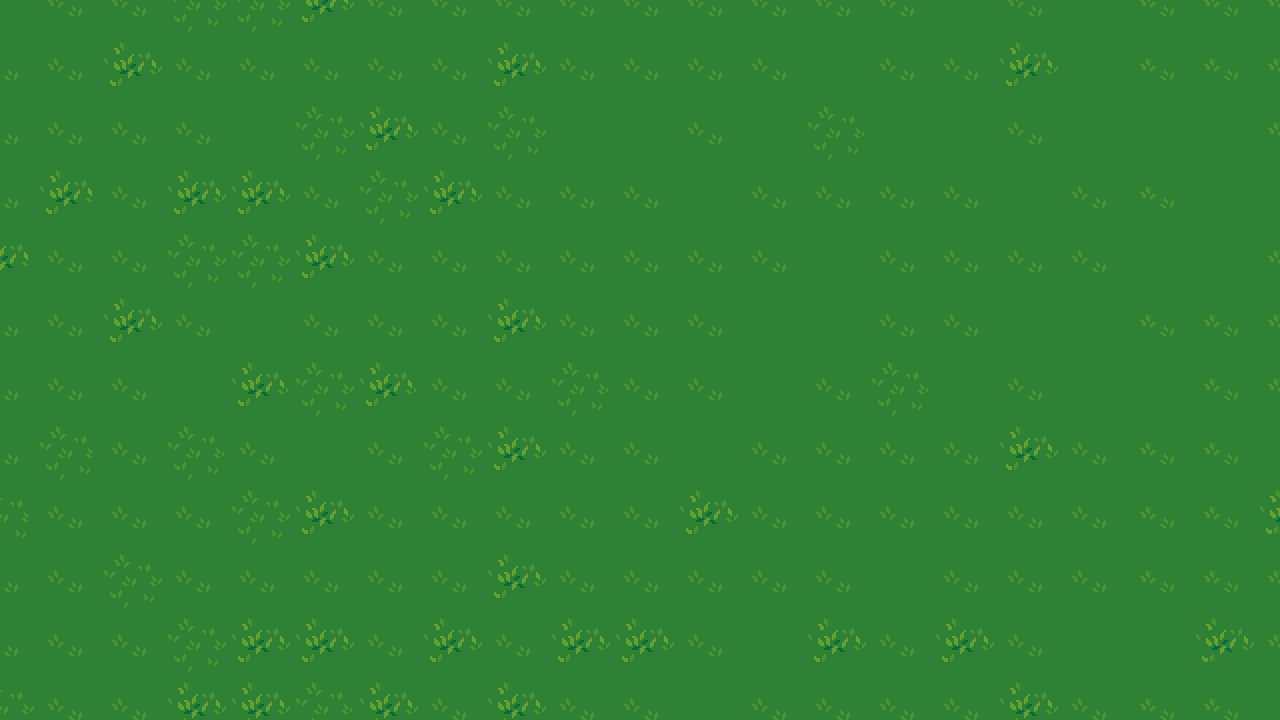
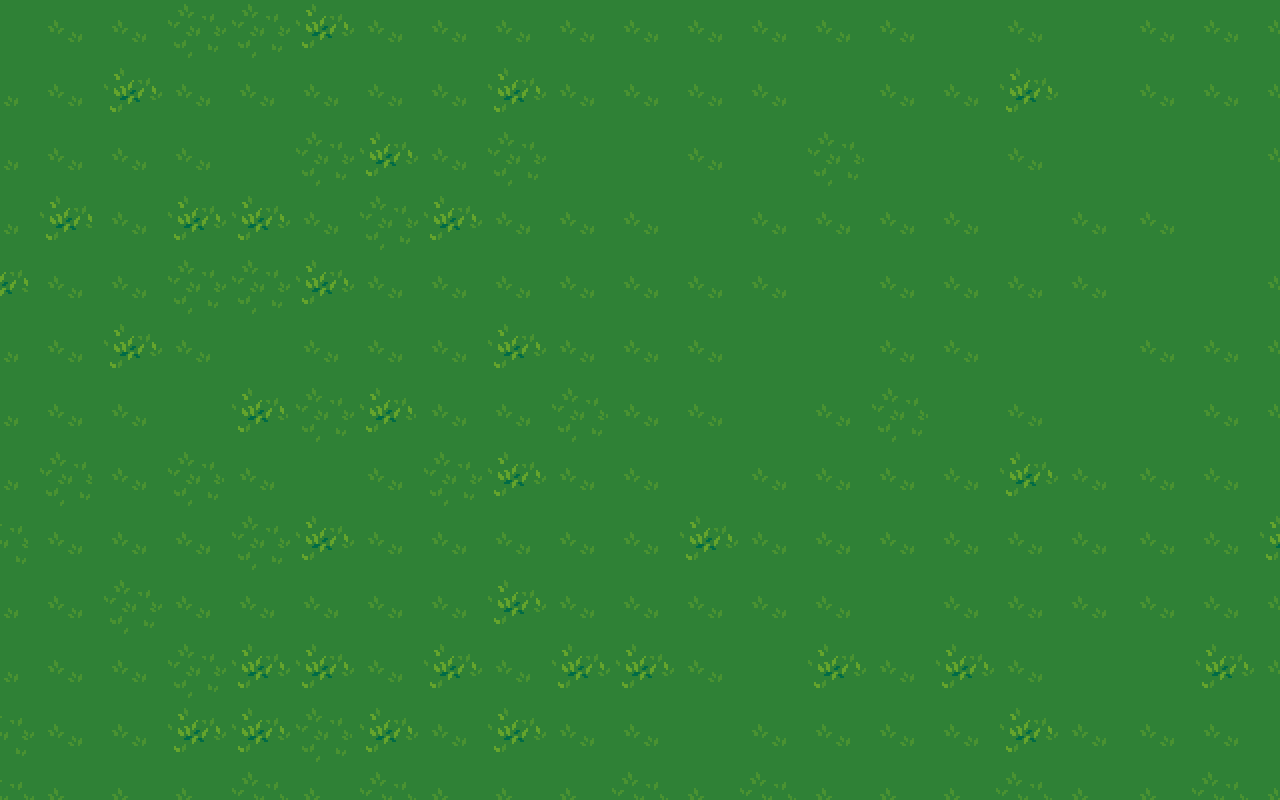
contador de score

diff --git a/JudsonRun/Judson.cpp b/JudsonRun/Judson.cpp
@@ -4,19 +4,18 @@ Judson::Judson(Image *shadowImg)
 {
     type = PLAYER;
 
-    tileSet = new TileSet("Resources/judson.png", 64, 96, 2, 4);
+    tileSet = new TileSet("Resources/judson.png", 64, 96, 6, 12);
     anim = new Animation(tileSet, 0.2f, true);
 
     shadow = new Sprite(shadowImg);
 
     speed = 300.0f;
 
-    BBox(new Rect(-20.0f, -34.0f, 14.0f, 48.0f));
+    BBox(new Rect(-20.0f, -32.0f, 14.0f, 50.0f));
 }
 
 Judson::~Judson()
 {
-    delete shadow;
     delete anim;
     delete tileSet;
 }
@@ -40,29 +39,28 @@ void Judson::Update()
     if (window->KeyUp(VK_DOWN))
         down = false;
 
-    if (left && !right && !up && !down)
+    if (left && right)
+        left = right = false;
+    if (up && down)
+        up = down = false;
+
+    float diaSpeed = speed / float(sqrt(2.0));
+
+    if (left && up)
+        Translate(-diaSpeed * gameTime, -diaSpeed * gameTime);
+    else if (left && down)
+        Translate(-diaSpeed * gameTime, diaSpeed * gameTime);
+    else if (right && up)
+        Translate(diaSpeed * gameTime, -diaSpeed * gameTime);
+    else if (right && down)
+        Translate(diaSpeed * gameTime, diaSpeed * gameTime);
+    else if (left)
         Translate(-speed * gameTime, 0.0f);
-    else if (!left && right && !up && !down)
+    else if (right)
         Translate(speed * gameTime, 0.0f);
-    else if (!left && !right && up && !down)
+    else if (up)
         Translate(0.0f, -speed * gameTime);
-    else if (!left && !right && !up && down)
-        Translate(0.0f, speed * gameTime);
-    else if (left && !right && up && !down)
-        Translate(-(speed / float(sqrt(2.0))) * gameTime, -(speed / float(sqrt(2.0))) * gameTime);
-    else if (left && !right && !up && down)
-        Translate(-(speed / float(sqrt(2.0))) * gameTime, (speed / float(sqrt(2.0))) * gameTime);
-    else if (!left && right && up && !down)
-        Translate((speed / float(sqrt(2.0))) * gameTime, -(speed / float(sqrt(2.0))) * gameTime);
-    else if (!left && right && !up && down)
-        Translate((speed / float(sqrt(2.0))) * gameTime, (speed / float(sqrt(2.0))) * gameTime);
-    else if (left && !right && up && down)
-        Translate(-speed * gameTime, 0.0f);
-    else if (!left && right && up && down)
-        Translate(speed * gameTime, 0.0f);
-    else if (left && right && up && !down)
-        Translate(0.0f, -speed * gameTime);
-    else if (left && right && !up && down)
+    else if (down)
         Translate(0.0f, speed * gameTime);
 
     if (powered)
@@ -88,12 +86,15 @@ void Judson::OnCollision(Object *other)
         powered = true;
         poweredTime = 10.0f;
 
+        // temporario, so pra testar
+        JudsonRun::panel->AddScore(100);
+
         JudsonRun::scene->Delete(other, MOVING);
     }
 }
 
 void Judson::Draw()
 {
-    shadow->Draw(x, y + 48, Layer::LOWER);
-    anim->Draw(x, y, Layer::FRONT);
+    shadow->Draw(float(int(x)), float(int(y) + 48), Layer::LOWER);
+    anim->Draw(float(int(x)), float(int(y)), 0.9f - (y / float(window->Height())) * 0.8f);
 }

diff --git a/JudsonRun/JudsonRun.cpp b/JudsonRun/JudsonRun.cpp
@@ -1,26 +1,19 @@
-
 #include "JudsonRun.h"
-#include "Cpp.h"
-#include "CppGenerator.h"
-#include "Engine.h"
-#include "Judson.h"
-#include "Mouse.h"
 #include "Resources.h"
 
 Scene *JudsonRun::scene = nullptr;
+Panel *JudsonRun::panel = nullptr;
 
 void JudsonRun::Init()
 {
     scene = new Scene();
+    panel = new Panel();
 
     bg = new Sprite("Resources/background.png");
     shadow = new Image("Resources/shadow.png");
 
     auto cppGenerator = new CppGenerator(shadow);
     scene->Add(cppGenerator, STATIC);
-
-    auto mouse = new Mouse();
-    scene->Add(mouse, MOVING);
 
     auto judson = new Judson(shadow);
     judson->MoveTo(window->CenterX(), window->CenterY());
@@ -34,17 +27,23 @@ void JudsonRun::Update()
 
     scene->CollisionDetection();
 
+    panel->Update();
     scene->Update();
 }
 
 void JudsonRun::Draw()
 {
     bg->Draw(window->CenterX(), window->CenterY(), Layer::BACK);
+
+    panel->Draw();
     scene->Draw();
 }
 
 void JudsonRun::Finalize()
 {
+    delete bg;
+    delete shadow;
+    delete panel;
     delete scene;
 }
 
@@ -55,7 +54,7 @@ int APIENTRY WinMain(_In_ HINSTANCE hInstance, _In_opt_ HINSTANCE hPrevInstance,
 
     // engine->window->Mode(FULLSCREEN);
     engine->window->Mode(WINDOWED);
-    engine->window->Size(1280, 720);
+    engine->window->Size(1280, 800);
     engine->window->Color(127, 127, 127);
     engine->window->Title("Judson, Run!");
     engine->window->Icon(IDI_ICON);

diff --git a/JudsonRun/Panel.cpp b/JudsonRun/Panel.cpp
@@ -1,0 +1,37 @@
+#include "Panel.h"
+
+Panel::Panel()
+{
+    background = new Sprite("Resources/panel.png");
+    numbers = new TileSet("Resources/numbers.png", 24, 32, 5, 10);
+    anim = new Animation[9]{
+        Animation(numbers, 0.0f, false), Animation(numbers, 0.0f, false), Animation(numbers, 0.0f, false),
+        Animation(numbers, 0.0f, false), Animation(numbers, 0.0f, false), Animation(numbers, 0.0f, false),
+        Animation(numbers, 0.0f, false), Animation(numbers, 0.0f, false), Animation(numbers, 0.0f, false),
+    };
+}
+
+Panel::~Panel()
+{
+    delete[] anim;
+    delete numbers;
+    delete background;
+}
+
+void Panel::Update()
+{
+    time += gameTime;
+}
+
+void Panel::Draw()
+{
+    background->Draw(window->Width() / 2.0f, 40.0f, 0.9f);
+    for (int i = 0; i < scoreTxt.length(); ++i)
+        anim[i].Draw(scoreTxt.at(i) - '0', 36.0f + (24.0f * i), 58.0f, Layer::LOWER);
+}
+
+void Panel::AddScore(uint s)
+{
+    score += s;
+    scoreTxt = (stringstream() << setw(9) << setfill('0') << to_string(score)).str();
+}

diff --git a/JudsonRun/Panel.h b/JudsonRun/Panel.h
@@ -1,0 +1,35 @@
+#ifndef _PANEL_H_
+#define _PANEL_H_
+
+#include "Animation.h"
+#include "Object.h"
+#include <iomanip>
+#include <sstream>
+#include <string>
+using std::setfill;
+using std::setw;
+using std::string;
+using std::stringstream;
+using std::to_string;
+
+class Panel : public Object
+{
+  private:
+    Sprite *background = nullptr;
+    TileSet *numbers = nullptr;
+    Animation *anim = nullptr;
+    float time = 0.0f;
+    uint score = 0;
+    string scoreTxt = "000000000";
+
+  public:
+    Panel();
+    ~Panel();
+
+    void AddScore(uint s);
+
+    void Update();
+    void Draw();
+};
+
+#endif

diff --git a/JudsonRun/JudsonRun.h b/JudsonRun/JudsonRun.h
@@ -1,8 +1,12 @@
 #ifndef _PLATFORMER_H_
 #define _PLATFORMER_H_
 
+#include "Cpp.h"
 #include "CppGenerator.h"
+#include "Engine.h"
 #include "Game.h"
+#include "Judson.h"
+#include "Panel.h"
 #include "Scene.h"
 
 enum JudsonRunObjects
@@ -21,6 +25,7 @@ class JudsonRun : public Game
 
   public:
     static Scene *scene;
+    static Panel *panel;
 
     void Init();
     void Update();

diff --git a/JudsonRun/Cpp.cpp b/JudsonRun/Cpp.cpp
@@ -43,6 +43,6 @@ void Cpp::Update()
 
 void Cpp::Draw()
 {
-    shadow->Draw(x, float(targetY + 32), Layer::LOWER);
-    anim->Draw(x, y, Layer::MIDDLE);
+    shadow->Draw(float(int(x)), float(targetY + 32), Layer::LOWER);
+    anim->Draw(float(int(x)), float(int(y)), 0.9f - (targetY / float(window->Height())) * 0.8f);
 }

diff --git a/JudsonRun/CppGenerator.cpp b/JudsonRun/CppGenerator.cpp
@@ -17,7 +17,6 @@ CppGenerator::CppGenerator(Image *shadow) : shadow(shadow), timer(0.0f)
 CppGenerator::~CppGenerator()
 {
     delete tileSet;
-    delete shadow;
 }
 
 void CppGenerator::Update()

diff --git a/JudsonRun/Judson.h b/JudsonRun/Judson.h
@@ -2,8 +2,10 @@
 #define _JUDSON_H_
 
 #include "Animation.h"
+#include "Cpp.h"
 #include "JudsonRun.h"
 #include "Object.h"
+#include "Panel.h"
 
 class Judson : public Object
 {
